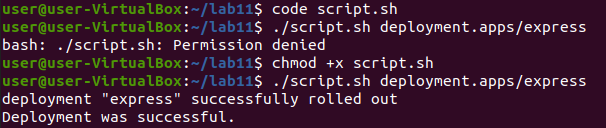
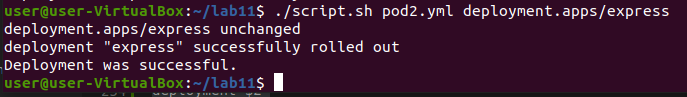
DZ404114
Lab12

diff --git a/ITE/GCL08/DZ404114/Lab12/Sprawozdanie.md b/ITE/GCL08/DZ404114/Lab12/Sprawozdanie.md
@@ -1,4 +1,4 @@
-# Sprawozdanie Lab11 i Lab12 Damian Zyznar ITE-GCL08
+# Sprawozdanie Lab11 Damian Zyznar ITE-GCL08
 
 <br>
 
@@ -143,3 +143,139 @@ spec:
 Utworzenie Pod'a i przedstawienie działania:
 
 ![deployment](../Lab11/screenshots/deployment.png)
+
+# Sprawozdanie Lab12 Damian Zyznar ITE-GCL08
+pods_dashboard
+
+Modyfikacja utworoznego w poprzednich laboratoriach pliku Pod i zmienie ilości replik do liczby 4.
+
+```
+spec:
+  replicas: 4
+```
+
+Utworzenie pod'a
+
+![pod_create](./screenshots/pod_create.png)
+
+Zbadanie stanu wdrożenia za pomocą ```kubectl rollout```, oraz wyświetlenie podów:
+
+![pod_rollout](./screenshots/pod_rollout.png)
+
+Wyświetlenie statusu w dashboardzie:
+
+![pods_dashboard](./screenshots/pods_dashboard.png)
+
+Zmiana ilości replik na 9, utworzenie poda i sprawdzenie statusu:
+
+![kubectl_9_replicas](./screenshots/kubectl_9_replicas.png)
+
+Dashboard:
+
+![dashboard_9](./screenshots/dashboard_9.png)
+
+Zmiana ilości replik na 1, utworzenie poda i sprawdzenie statusu:
+
+![kubectl_1](./screenshots/kubectl_1.png)
+
+Dashboard:
+
+![dashboard_1](./screenshots/dashboard_1.png)
+
+Oraz 0 replik:
+
+![dashboard_0](./screenshots/dashboard_0.png)
+
+# Przygotowanie nowego obrazu
+
+W celu skorzystania z DockerHub'a zalogowano się na maszynie wirtualnej przy pomocy klucza sha.
+
+![dockerhub_login](./screenshots/dockerhub_login.png)
+
+Utworzenie obrazu i wypchnięcie go na dockerhub
+
+![docker_push](./screenshots/docker_push.png)
+
+Usunięcie kilku niezbędnych skryptów w programie, oraz utworzenie obrazu i wypchnięcie go na dockerhub.
+
+![docker_build_fail](./screenshots/docker_build_fail.png)
+
+Udowodnienie istnienia obrazów w zdalnym repozytorium:
+
+![dockerhub](./screenshots/dockerhub.png)
+
+Zmiana w pliku definicji pod.yml obrazu na ten obierany z dockerguba, oraz usunięcie linii ImagePullPolicy: Never. Teraz jeśli w repozytorium lokalnym nie będzie obrazu, to zostanie on pobrany z repozytorium z dockerhub. 
+
+```
+apiVersion: apps/v1
+kind: Deployment
+metadata:
+  name: express
+  labels:
+    app: express
+spec:
+  replicas: 1
+  selector:
+    matchLabels:
+      app: express
+  template:
+    metadata:
+      labels:
+        app: express
+    spec:
+      containers:
+      - name: express
+        image: damczi17/express:latest
+        ports:
+        - containerPort: 3000
+```
+
+Działanie w dashboardzie:
+
+![dashboard_latest](./screenshots/dashboard_latest.png)
+
+Zmiana obrazu na błędny i działanie w dashboardzie:
+
+![dashboard_fail](./screenshots/dashboard_fail.png)
+
+Wyświetlono hisotrii poprzednich wdrożeń i wyświetenie szczegółów wdrożenia 1:
+
+![kubectl_revision](./screenshots/kubectl_revision.png)
+
+Przywrócenie 1 wdrożenia:
+
+![rollback_undo](./screenshots/rollback_undo.png)
+
+# Kontrola wdrożenia
+
+W tym kroku utworzono prosty skrypt w bashu, który sprawdza czas tworzenia się wdrożenia. Jeśli czas jest większy niż 60 sekund skrypt zwraca informacje o błędzie.
+
+```
+#!/bin/bash
+
+if [ $# -ne 2 ]; then
+	echo "This script requires exactly 2 arguments."
+	exit 1
+fi
+
+name=$1
+deployment=$2
+
+kubectl apply -f $name
+timeout 60 /usr/local/bin/minikube kubectl rollout status $deployment
+
+if [ $? -eq 0 ]; then
+	echo "Deployment was successful."
+    exit 0
+else
+	echo "Deployment failed."
+    exit 1
+fi
+```
+
+Działanie skryptu:
+
+![script](./screenshots/script.png)
+
+
+# Strategie wdrożenia
